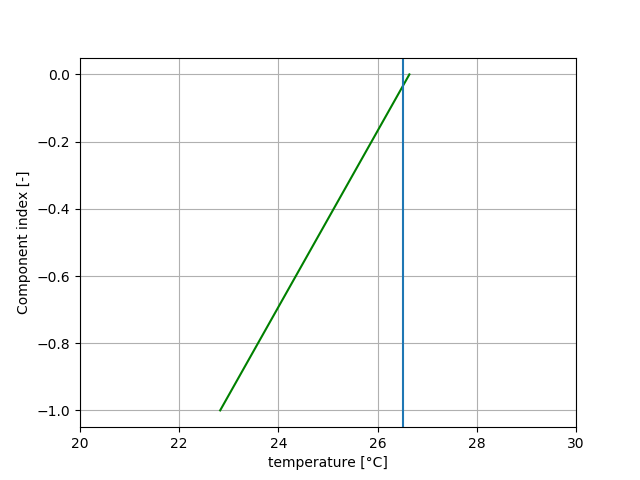
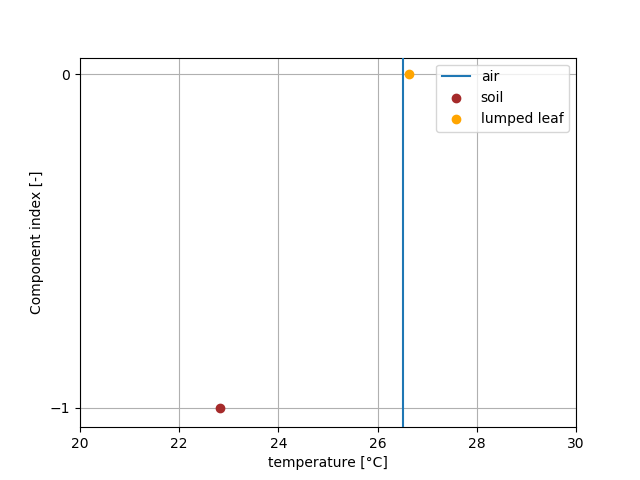
plots style modifications

diff --git a/examples/bigleaf_lumped_at_one_hour/sim.py b/examples/bigleaf_lumped_at_one_hour/sim.py
@@ -9,13 +9,22 @@ from crop_energy_balance.utils import convert_kelvin_to_celsius
 
 
 def plot_temperature_profile(canopy_object: Canopy, fig_path: Path):
-    component_index, component_temperature = zip(*[(k, convert_kelvin_to_celsius(v.temperature))
-                                                   for k, v in canopy_object.items()])
+    soil_component_key = -1
+    leaf_layer_key = 0
+    soil_component_temperature = convert_kelvin_to_celsius(canopy_object[-1].temperature)
+    leaf_component_temperature = convert_kelvin_to_celsius(canopy_object[0].temperature)
+
     fig, ax = pyplot.subplots()
-    ax.plot(component_temperature, component_index, 'g-', label='canopy')
-    ax.axvline(convert_kelvin_to_celsius(canopy_object.inputs.air_temperature), label='air')
+    ax.grid(zorder=0)
+    ax.scatter(soil_component_temperature, soil_component_key,
+               marker='o', c='brown', edgecolors=None, label='soil', zorder=3)
+    ax.scatter(leaf_component_temperature, leaf_layer_key,
+               marker='o', c='orange', edgecolors=None, label='lumped leaf', zorder=3)
+    ax.axvline(convert_kelvin_to_celsius(canopy_object.inputs.air_temperature),
+               label='air', zorder=3)
     ax.set(xlabel='temperature [°C]', ylabel='Component index [-]', xlim=(20, 30))
-    ax.grid(True)
+    ax.yaxis.set_ticks([-1, 0])
+    ax.legend()
     fig.savefig(fig_path)
     pyplot.close()
 

diff --git a/examples/bigleaf_sunlit_shaded_at_one_hour/sim.py b/examples/bigleaf_sunlit_shaded_at_one_hour/sim.py
@@ -16,12 +16,15 @@ def plot_temperature_profile(canopy_object: Canopy, fig_path: Path):
     shaded_component_temperature = convert_kelvin_to_celsius(canopy_object[leaf_layer_key]['shaded'].temperature)
 
     fig, ax = pyplot.subplots()
-    ax.plot(soil_component_temperature, soil_component_key, marker='o', markerfacecolor='brown')
-    ax.plot(sunlit_component_temperature, leaf_layer_key, marker='o', markerfacecolor='yellow')
-    ax.plot(shaded_component_temperature, leaf_layer_key, marker='o', markerfacecolor='orange')
+    ax.grid(True, zorder=0)
+    ax.scatter(soil_component_temperature, soil_component_key,
+               marker='o', c='brown', edgecolors=None, label='soil', zorder=3)
+    ax.scatter(sunlit_component_temperature, leaf_layer_key,
+               marker='o', c='yellow', edgecolors=None, label='sunlit', zorder=3)
+    ax.scatter(shaded_component_temperature, leaf_layer_key,
+               marker='o', c='orange', edgecolors=None, label='shaded', zorder=3)
     ax.axvline(convert_kelvin_to_celsius(canopy_object.inputs.air_temperature), label='air')
     ax.set(xlabel='temperature [°C]', ylabel='Component index [-]', xlim=(20, 30))
-    ax.grid(True)
     fig.savefig(fig_path)
     pyplot.close()
 

diff --git a/examples/layered_lumped_at_one_hour/sim.py b/examples/layered_lumped_at_one_hour/sim.py
@@ -9,13 +9,18 @@ from matplotlib import pyplot
 
 
 def plot_temperature_profile(canopy_object: Canopy, fig_path: Path):
-    component_index, component_temperature = zip(*[(k, convert_kelvin_to_celsius(v.temperature))
-                                                   for k, v in canopy_object.items()])
+    soil_component_key = -1
+    leaf_layer_keys = list(canopy_object.inputs.leaf_layers.keys())
+    soil_component_temperature = convert_kelvin_to_celsius(canopy_object[-1].temperature)
+    leaf_component_temperature = [convert_kelvin_to_celsius(canopy_object[k].temperature) for k in leaf_layer_keys]
+
     fig, ax = pyplot.subplots()
-    ax.plot(component_temperature, component_index, 'g-', label='canopy')
+    ax.grid(zorder=0)
+    ax.scatter(soil_component_temperature, soil_component_key,
+               marker='o', c='brown', edgecolors=None, label='soil', zorder=3)
+    ax.plot(leaf_component_temperature, leaf_layer_keys, 'g-', label='lumped leaf')
     ax.axvline(convert_kelvin_to_celsius(canopy_object.inputs.air_temperature), label='air')
     ax.set(xlabel='temperature [°C]', ylabel='Component index [-]', xlim=(20, 30))
-    ax.grid(True)
     ax.legend()
     fig.savefig(fig_path)
     pyplot.close()
